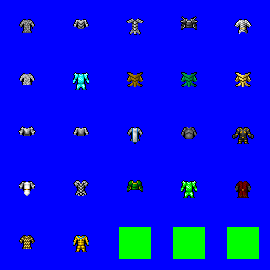
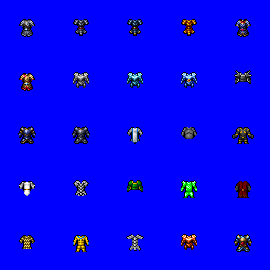
Added latest rltiles armor sprites

diff --git a/items/lightarmor.py b/items/lightarmor.py
@@ -81,7 +81,7 @@ class HideArmor( Clothing ):
     avatar_image = "avatar_lightarmor.png"
     avatar_frame = 0
     pants_frame = 5
-    statline = stats.StatMod({ stats.PHYSICAL_DEFENSE: 15 })
+    statline = stats.StatMod({ stats.PHYSICAL_DEFENSE: 15, stats.STEALTH: -15 })
     mass = 105
 
 class StuddedLeather( Clothing ):
@@ -101,7 +101,7 @@ class LaminatedArmor( Clothing ):
     avatar_image = "avatar_lightarmor.png"
     avatar_frame = 2
     pants_frame = 3
-    statline = stats.StatMod({ stats.PHYSICAL_DEFENSE: 15 })
+    statline = stats.StatMod({ stats.PHYSICAL_DEFENSE: 15, stats.STEALTH: -5 })
     mass = 120
 
 class ChainShirt( Clothing ):
@@ -113,6 +113,17 @@ class ChainShirt( Clothing ):
     pants_frame = 4
     statline = stats.StatMod({ stats.PHYSICAL_DEFENSE: 15, stats.MAGIC_ATTACK: -5 })
     mass = 75
+
+class RingMail( Clothing ):
+    true_name = "Ringmail Armor"
+    true_desc = ""
+    itemtype = LIGHT_ARMOR
+    avatar_image = "avatar_lightarmor.png"
+    avatar_frame = 23
+    pants_frame = 1
+    statline = stats.StatMod({ stats.PHYSICAL_DEFENSE: 15, stats.MAGIC_ATTACK: -15, stats.STEALTH: -10 })
+    mass = 125
+
 
 class ScaleMail( Clothing ):
     true_name = "Scale Mail"

diff --git a/items/heavyarmor.py b/items/heavyarmor.py
@@ -38,7 +38,7 @@ class FullPlate( Clothing ):
     avatar_image = "avatar_heavyarmor.png"
     avatar_frame = 10
     pants_frame = 16
-    statline = stats.StatMod({ stats.PHYSICAL_DEFENSE: 35, stats.MAGIC_ATTACK: -30, stats.STEALTH: -15 })
+    statline = stats.StatMod({ stats.PHYSICAL_DEFENSE: 35, stats.MAGIC_ATTACK: -25, stats.STEALTH: -20 })
     mass = 400
 
 class ElvenPlate( Clothing ):

diff --git a/items/__init__.py b/items/__init__.py
@@ -433,7 +433,7 @@ harvest( wands )
 # Test Items
 #for ic in ITEM_LIST:
 #    i = ic()
-#    if i.itemtype in (GAUNTLET, HELM, SHIELD ):
+#    if i.itemtype in (LIGHT_ARMOR, HEAVY_ARMOR ):
 #        print "{0}: {1}/{2}gp".format( i, i.min_rank(), i.cost() )
 
 import enhancers
